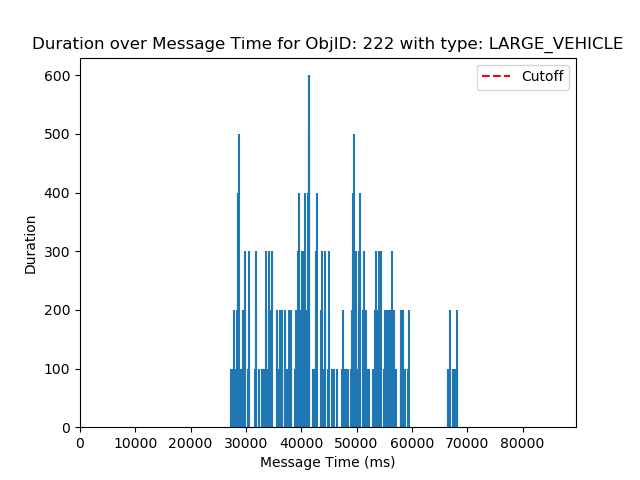
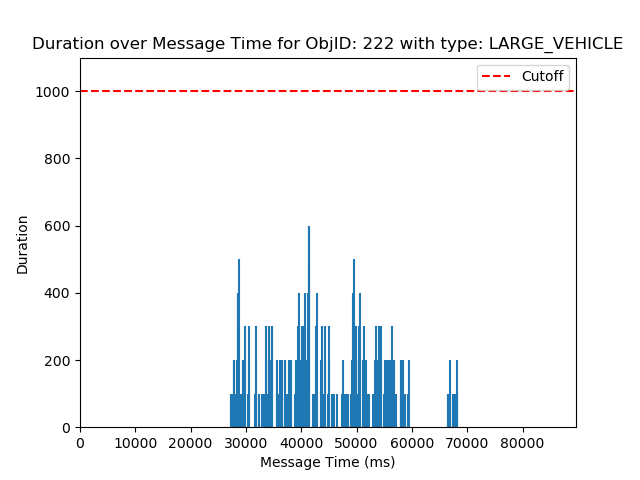
improve plot

diff --git a/vru_use_case_scripts/process_duplicates.py b/vru_use_case_scripts/process_duplicates.py
@@ -32,7 +32,7 @@ def plot_duplicates(input_file):
         fig, ax = plt.subplots()
         ax.stem(group['Message Time (ms)'], group['Duration'], basefmt=" ", markerfmt=' ', use_line_collection=True)
         ax.set_xlim(left=0)  # Set x-axis to start at zero
-        ax.set_ylim(bottom=0)  # Set y-axis to start at zero
+        ax.set_ylim(bottom=0, top=1100)  # Set y-axis to start at zero
         plt.axhline(y=1000, color='r', linestyle='--', label='Cutoff')
         plt.xlabel('Message Time (ms)')
         plt.ylabel('Duration')
